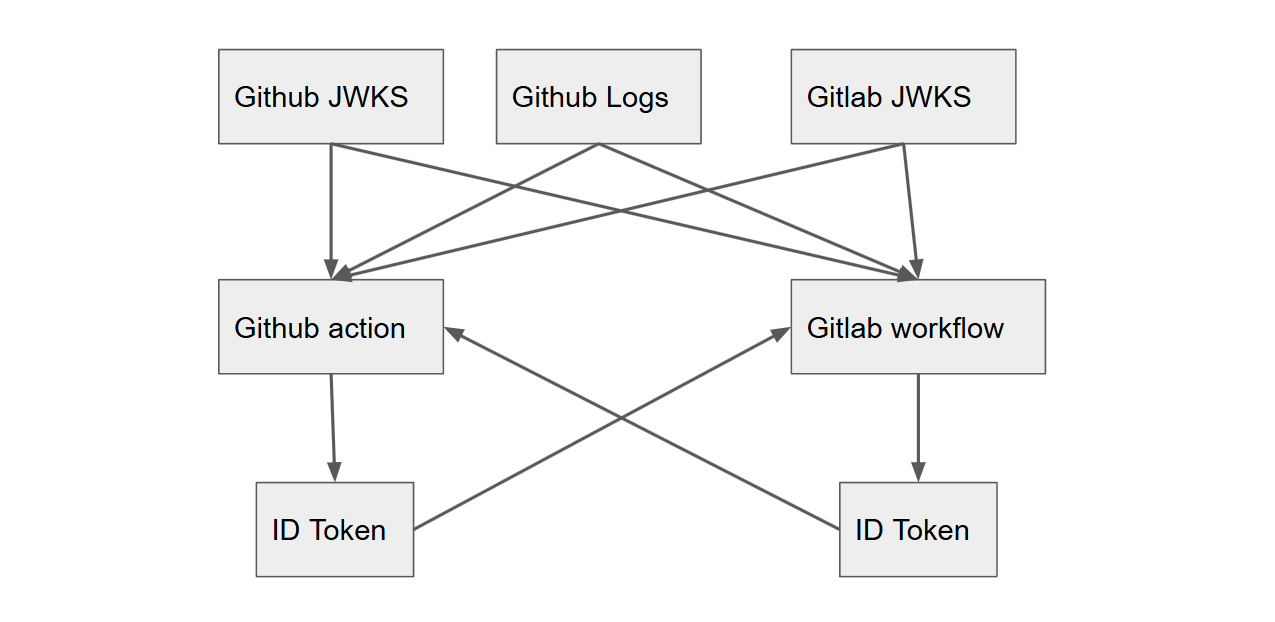
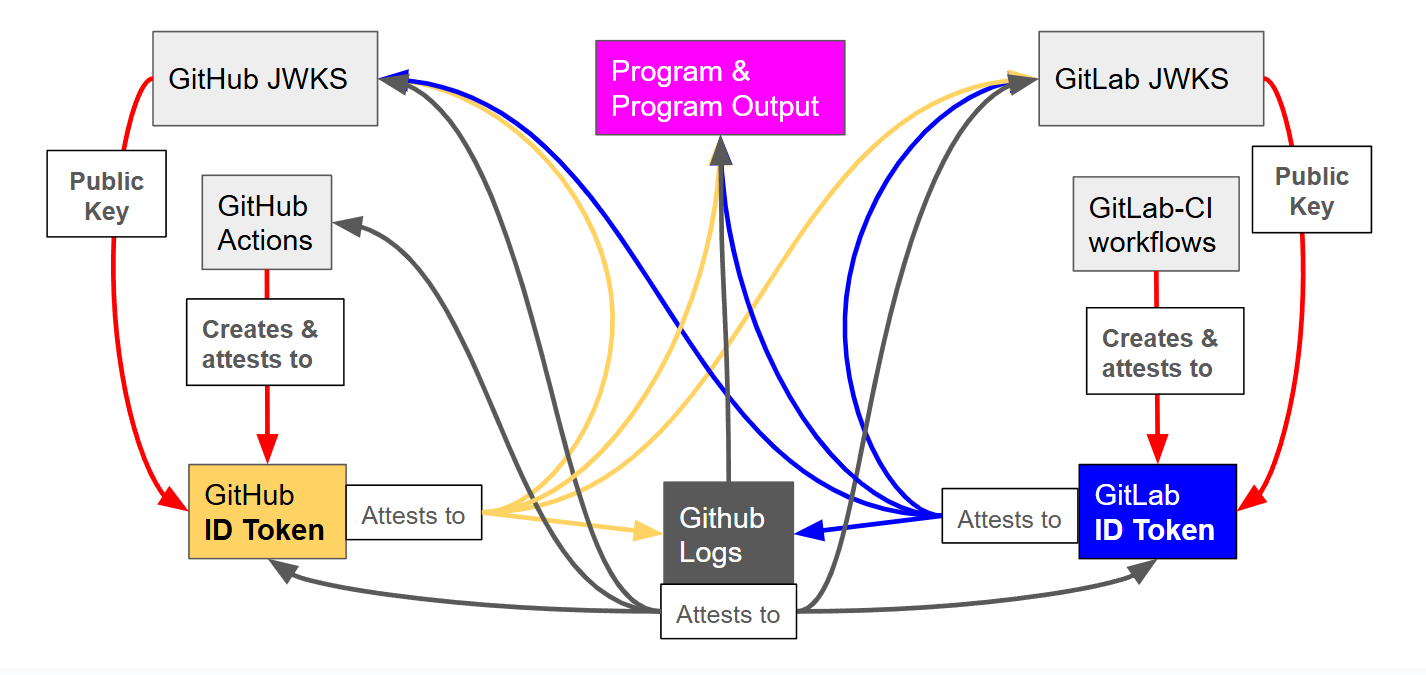
Better figure, reword 35

Changed region(s): [[0.0306, 0.0305, 0.9788, 0.9469]]

diff --git a/x/35/index.html b/x/35/index.html
@@ -13,7 +13,7 @@
 </div>
 <div class='box_container'>
 <div class='text_container'>
-<h1>Turning Github Actions into an oracle</h1><p>08-02-2025 7:23PM (ET) 09-07-2025 10:02PM (ET) (edited)</p><hr /><div>
+<h1>Turning Github Actions into an oracle</h1><p>08-02-2025 7:23PM (ET) 09-08-2025 11:31PM (ET) (edited)</p><hr /><div>
         <img src="figs/dragons.png" alt="NASA announces dragons are real" style="max-width:800px; width:100%;">
 </div>
 
@@ -32,7 +32,7 @@ At the end we show how remove Github as a trusted party<sup id="fnref:2"><a clas
 <li><strong>BBC Technology News Oracle</strong> - An example use of URL Oracle that creates and verifies attestations for the BBC Technology RSS feed content to ensures the integrity and authenticity of BBC Technology news content through cryptographic attestations. <a href="https://github.com/kipz/bbc-tech-news-oracle/tree/main">github.com/kipz/bbc-tech-news-oracle</a></li>
 </ul>
 <p><strong>Disclaimer:</strong> While the features of GitHub Actions and GitLab-CI enable this functionality, this is an off-label use.
-This is preliminary research, do not use this without first consulting with your cryptographer.
+This is preliminary research, do not use this without first consulting with your personal cryptographer.
 If you notice an increased appetite for trusted third parties, discontinue use immediately.</p>
 <h2>What our GitHub Action’s oracle does</h2>
 <p>While TLS notary is our main use case the functionality provided by this design goes well beyond a notary and provides an oracle for general purpose attestation of computation, i.e. <a href="https://en.wikipedia.org/wiki/Trusted_Computing">Trusted Computing</a>!
@@ -148,6 +148,9 @@ Since each ID Token contains the date at which it was issued, it not only attest
 GitLab-CI provides very similar functionality to GitHub Actions.
 Build an oracle out of GitLab-CI and have our GitLab-CI oracle check the GitHub’s oracle and have the GitHub oracle check the GitLab-CI oracle.
 GitLab-CI does not provide the same audience functionality as GitHub, but we can use <a href="https://web.archive.org/web/20240807093138/https://www.bastionzero.com/blog/generalizing-openpubkey-to-any-identity-provider">the technique we discuss here to achieve similar functionality</a>.</p>
+<p>As shown in the figure below, the lines in red are the security dependencies, e.g. Github ID Tokens depends on GitHub Action that creates them and depends public key in the GitHub JWKS URI which can verify them.
+The lines not in red show attestation relationships such as a GitHub/GitLab ID Token attesting to all the past GitHub logs or the GitHub logs attesting to the Program Output.
+Orange lines are GitHub ID Token attestations, black lines are GitHub log attestations, blue lines are GitLab-CI ID Token attestations.</p>
 <div>
         <img src="figs/web-of-truth.png" alt="Having multiple OPs attest to each other JWKS" style="max-width:800px; width:100%;">
 </div>

diff --git a/x/35/post.md b/x/35/post.md
@@ -19,7 +19,7 @@ The incredible James Carnegie ([kipz](https://github.com/kipz)) has written a wo
 * **BBC Technology News Oracle** - An example use of URL Oracle that creates and verifies attestations for the BBC Technology RSS feed content to ensures the integrity and authenticity of BBC Technology news content through cryptographic attestations. [github.com/kipz/bbc-tech-news-oracle](https://github.com/kipz/bbc-tech-news-oracle/tree/main)
 
 **Disclaimer:** While the features of GitHub Actions and GitLab-CI enable this functionality, this is an off-label use.
-This is preliminary research, do not use this without first consulting with your cryptographer.
+This is preliminary research, do not use this without first consulting with your personal cryptographer.
 If you notice an increased appetite for trusted third parties, discontinue use immediately.
 
 ## What our GitHub Action’s oracle does
@@ -109,7 +109,6 @@ Anyone who sees (idt,nasa-data) can verify that the oracle attests to the front 
 GitHub rotates the keys that sign their ID Token’s every few weeks.
 In the above scheme, once the public key that verifies GitHub’s signature on the ID Token is rotated off GitHub’s JWKS URI, no one will be able to verify GitHub’s signature.
 
-
 <div>
         <img src="figs/life-of-jwks.png" alt="How JWKS works and how rotations happen" style="max-width:800px; width:100%;">
 </div>
@@ -117,7 +116,6 @@ In the above scheme, once the public key that verifies GitHub’s signature on t
 There are two solutions for this.
 First, we could leverage GitHub’s key rotation policy to chain attestations about JWKS backwards by making attestations about the keys in the JWKS URI.
 Second, we could use the fact that GitHub Action output is stored in logs which can be downloaded by a program running in a GitHub Action.
-
 
 GitHub always has two public keys at the JWKS URI. An old public key and a new public key.
 All new ID Token signatures verify under the new public key with the old public key existing to ensure previously issued ID Tokens have a verification grace period.
@@ -158,6 +156,10 @@ To remove trust in GitHub Actions we build a GitLab-CI oracle.
 GitLab-CI provides very similar functionality to GitHub Actions.
 Build an oracle out of GitLab-CI and have our GitLab-CI oracle check the GitHub’s oracle and have the GitHub oracle check the GitLab-CI oracle.
 GitLab-CI does not provide the same audience functionality as GitHub, but we can use [the technique we discuss here to achieve similar functionality](https://web.archive.org/web/20240807093138/https://www.bastionzero.com/blog/generalizing-openpubkey-to-any-identity-provider).
+
+As shown in the figure below, the lines in red are the security dependencies, e.g. Github ID Tokens depends on GitHub Action that creates them and depends public key in the GitHub JWKS URI which can verify them.
+The lines not in red show attestation relationships such as a GitHub/GitLab ID Token attesting to all the past GitHub logs or the GitHub logs attesting to the Program Output.
+Orange lines are GitHub ID Token attestations, black lines are GitHub log attestations, blue lines are GitLab-CI ID Token attestations.
 
 <div>
         <img src="figs/web-of-truth.png" alt="Having multiple OPs attest to each other JWKS" style="max-width:800px; width:100%;">
